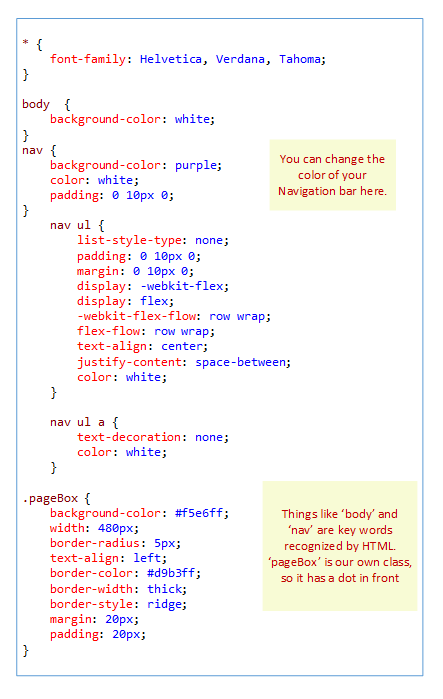
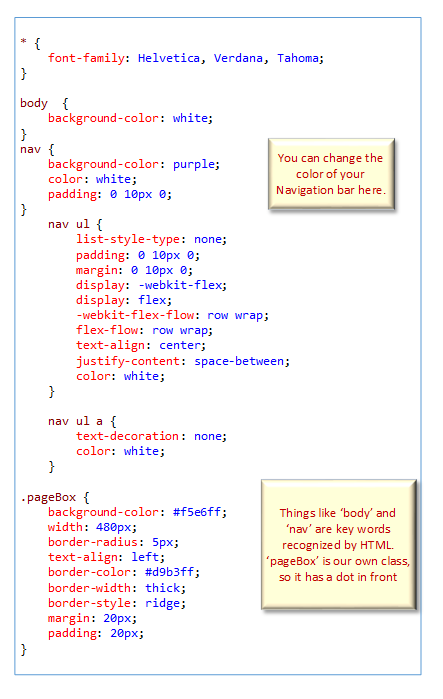
image enhancements, definitions

diff --git a/DevSetUp.html b/DevSetUp.html
@@ -18,6 +18,11 @@
                 hide: {
                     effect: "fold",
                     duration: 1000
+                },
+                position: {
+                    my: "left top",
+                    at: "center bottom",
+                    of: "#HelpGitHub"
                 }
             });
             $("#HelpGitHub").on("click",
@@ -33,6 +38,11 @@
                 hide: {
                     effect: "fold",
                     duration: 1000
+                },
+                position: {
+                    my: "left top",
+                    at: "left bottom",
+                    of: "#HelpRepository"
                 }
             });
             $("#HelpRepository").on("click",
@@ -91,8 +101,12 @@
     <div class="NextLink"><a href='DevSetup2.html'>Next: Let's customize our web pages</a></div>
     <br/><br/>
 
-    <div id="WhatIsGitHub" class="WhatIsBox" >GitHub information goes here</div>
-    <div id="WhatIsRepository" class="WhatIsBox">Explain a repository here</div>
+                <div id="WhatIsGitHub" class="WhatIsBox" >GitHub is a website and platform that helps you host
+                    and review web pages, and build your software.</div>
+                <div id="WhatIsRepository" class="WhatIsBox">A repository is a place to store your code.  Today
+                    we're storing our code on GitHub.  You can create
+                    multiple repositories on your GitHub account
+                    so you can put your projects in separate spaces.</div>
     </div>
     
 

diff --git a/Resources.html b/Resources.html
@@ -6,16 +6,18 @@
     <link rel="icon" href="images/Chicktech-Symetra-Icon.png">
     <script src="https://code.jquery.com/jquery-1.12.4.js"></script>
     <script src="https://code.jquery.com/ui/1.12.1/jquery-ui.js"></script>
+    <link rel="stylesheet" href="https://code.jquery.com/ui/1.12.1/themes/base/jquery-ui.css" />
 </head>
 <body>
 <object name="Top" type="text/html" data="Nav.html" style="width: 100%"></object>
-<section>
+<section style="max-width: 1200px;">
 <h1>Resources</h1>
-<div class="flex-container2">
+<div class="flex-container2" >
     <div class="resourceBox">
         <h4>General</h4>
         <ul>
-            <li>Our sponsor: <a href="https://chicktech.org" target="_blank">ChickTech</a></li>
+            <li><a href="https://chicktech.org" target="_blank">ChickTech.org</a></li>
+            <li>Our sponsor: <a href="https://Symetra.com" target="_blank">Symetra Financial</a></li>
         </ul>
     </div>
     <div class="resourceBox">

diff --git a/DevWelcome.html b/DevWelcome.html
@@ -72,8 +72,12 @@
         </div>
         <div style="clear: both;"></div>
         <div id="NextLink"><a href='DevSetUp.html'>Let's get started</a></div>
-        <div id="WhatIsCss" class="WhatIsBox" >Definition of CSS goes here</div>
-        <div id="WhatisJavascript" class="WhatIsBox" >Definition of Javascript goes here</div>
+        <div id="WhatIsCss" class="WhatIsBox" >CSS stands for Cascading Style Sheets.  It is a language 
+            that describes how your web pages should look (their "style").</div>
+        <div id="WhatisJavascript" class="WhatIsBox" >JavaScript is a computer language, often
+            used on the web to create a more fun and friendly experience.<br/><br/>
+            If your web page does something when you click or move your mouse, it's usually
+            JavaScript that creates the effect.</div>
     </section>
 </body>
 </html>

diff --git a/DevSetup2.html b/DevSetup2.html
@@ -29,7 +29,6 @@
             
             
                 <p>Check it out by using a browser, and going to <strong>https://username.github.io</strong></p></div>
-            <div class="todo">Replace pic of Nav bar with updated one that has new links</div>
 
             <div class="PrevLink"><br/><br/><a href='DevSetUp.html'>Previous: Set up our Account</a></div>&nbsp;&nbsp;
             <div class="NextLink"><a href='DevCodeLook.html'>Next: Looking at the Code</a></div>

diff --git a/Default.css b/Default.css
@@ -25,6 +25,7 @@ h1 {
     display: flex;
     -webkit-flex-flow: row wrap;
     flex-flow: row wrap;
+    max-width: 1200px;
 
 }
 h4 {
@@ -309,8 +310,12 @@ a {
 }
 .WhatIsBox {
     background-color: #ffffcc;
-    border-radius: 6px;
+    border-radius: 8px;
     padding: 20px;
+    border-top: 1px solid #ffff66;
+    border-left: 1px solid #ffff66;
+    border-bottom: 5px solid #bfbfbf;
+    border-right: 5px solid #bfbfbf;
 }
 .Definition {
     padding: 25px;

diff --git a/Dev0.html b/Dev0.html
@@ -67,7 +67,7 @@
             
             
             <div style="clear:both;" class="todo">
-                <p><br/><br/>To do: Fix the box widths.  Consider showing the code on the right.</p>
+             
             </div>
 
     </section>
